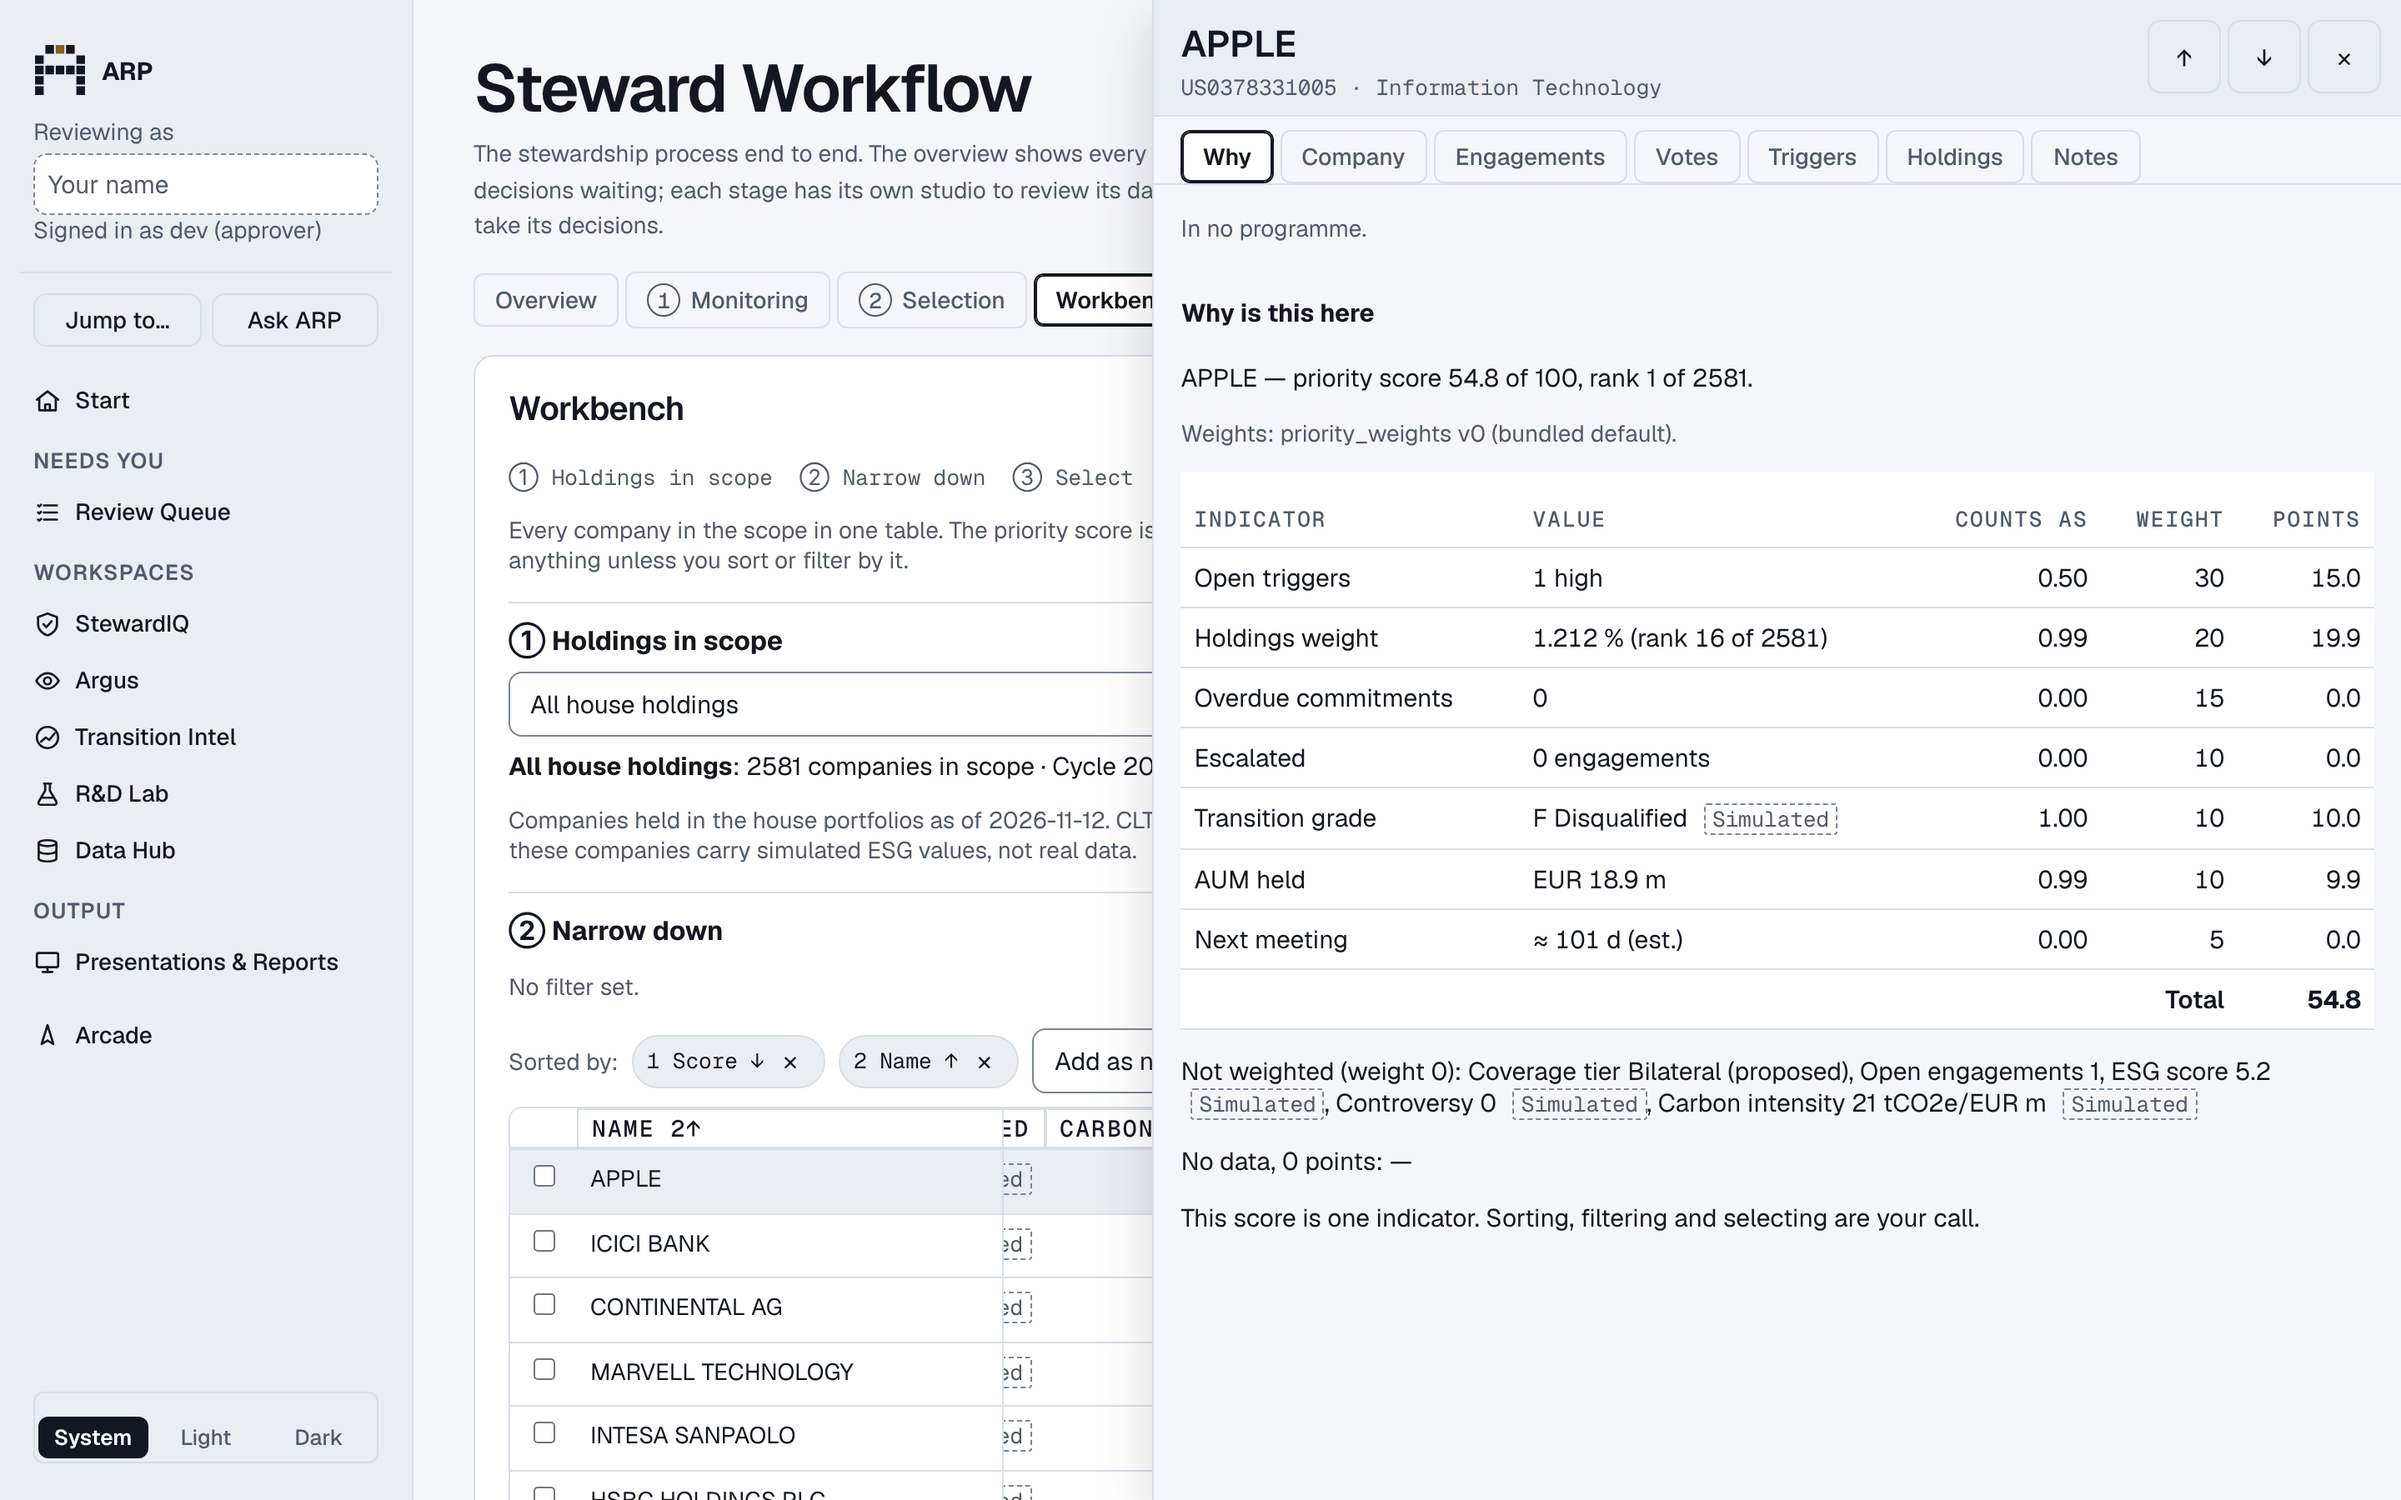
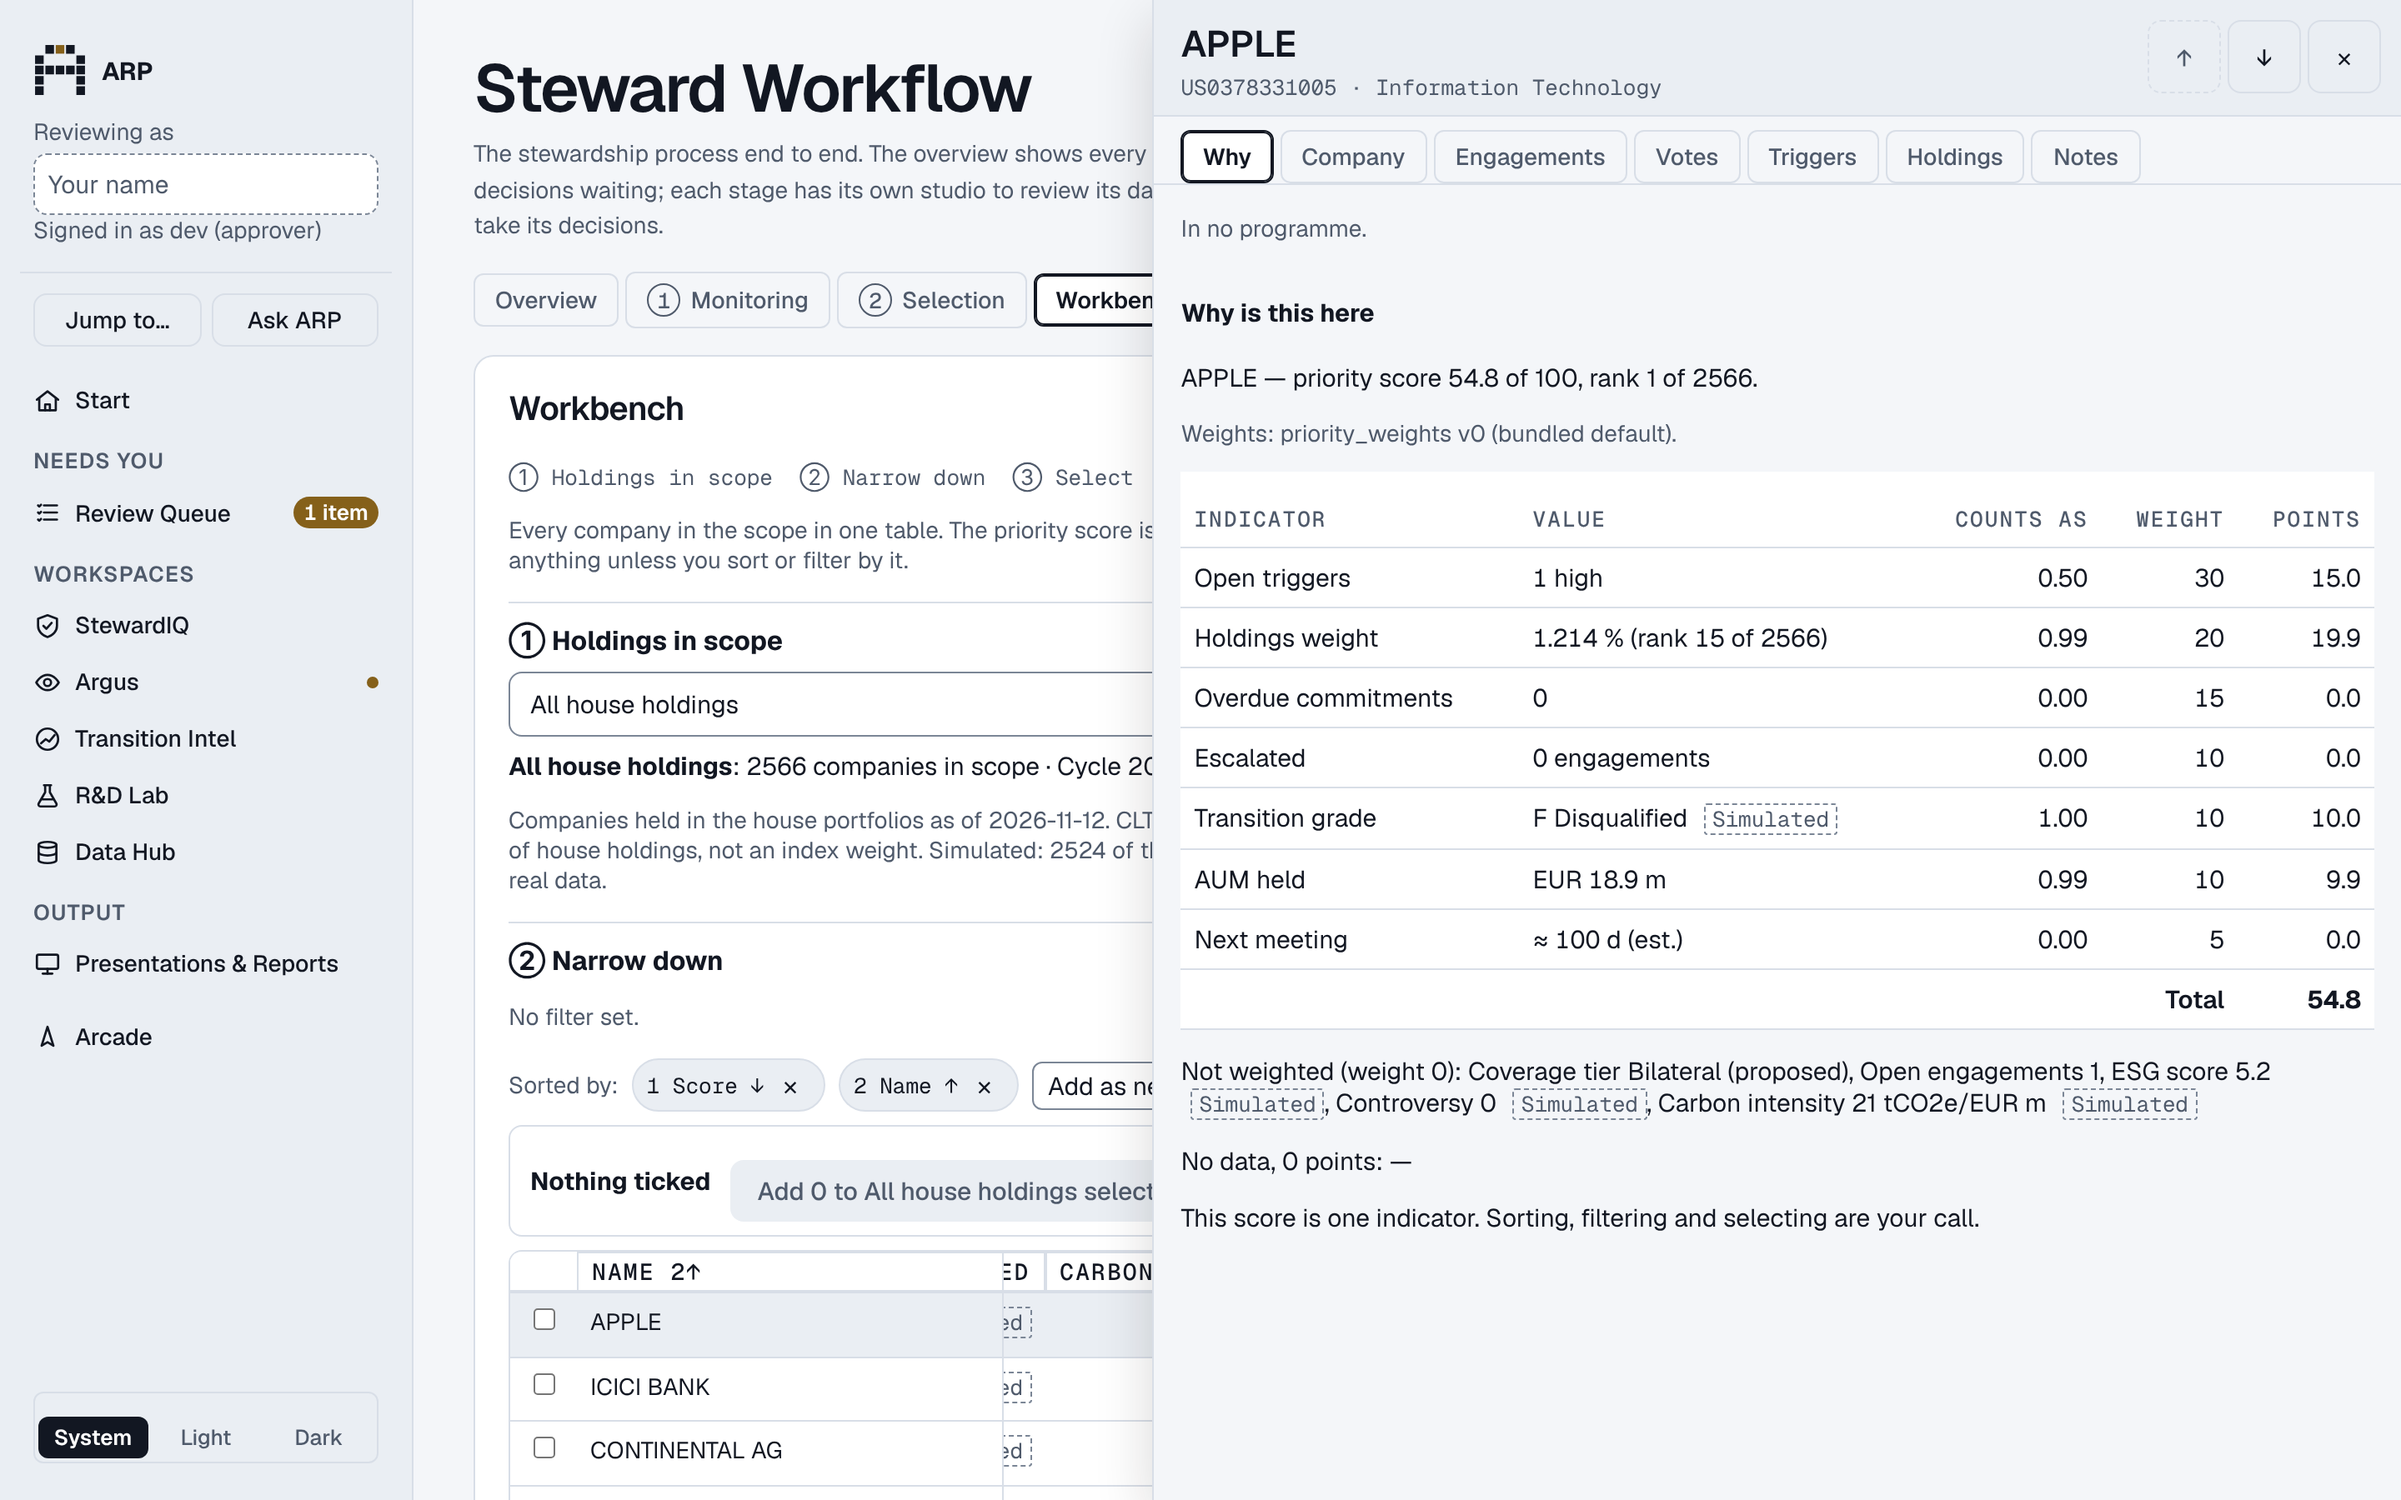
fix(stewardship): side panel on a phone - Votes and Holdings rows stack as label and value lines so every column shows; screenshots refreshed
Claude-Session: https://claude.ai/code/session_01GEWuyGcugqjNLLbRiv7WvN

diff --git a/frontend/src/pages/steward/WorkbenchPanel.tsx b/frontend/src/pages/steward/WorkbenchPanel.tsx
@@ -345,7 +345,7 @@ function VotesTab({ id }: { id: string }) {
     <>
       {data.total > data.votes.length && <p className="muted">{`Showing ${data.votes.length} of ${data.total}`}</p>}
       <div className="table-wrap">
-        <table className="data-table">
+        <table className="data-table wb-stack">
           <thead>
             <tr>
               <th>Date</th>
@@ -361,12 +361,12 @@ function VotesTab({ id }: { id: string }) {
           <tbody>
             {data.votes.map((v, i) => (
               <tr key={`${v.meeting_date}-${v.item_number}-${i}`}>
-                <td className="mono">{day(v.meeting_date) || "—"}</td>
-                <td className="wb-wrap">{[v.item_number, v.description].filter(Boolean).join(" ") || "—"}</td>
-                <td>{v.management_recommendation ? words(v.management_recommendation).toUpperCase() : "—"}</td>
-                <td>{v.vote_label ?? words(v.vote)}</td>
-                <td>{v.against_management === null ? "—" : v.against_management ? "Yes" : "No"}</td>
-                <td>{v.demo && <Demo />}</td>
+                <td className="mono" data-label="Date">{day(v.meeting_date) || "—"}</td>
+                <td className="wb-wrap" data-label="Item">{[v.item_number, v.description].filter(Boolean).join(" ") || "—"}</td>
+                <td data-label="Management recommendation">{v.management_recommendation ? words(v.management_recommendation).toUpperCase() : "—"}</td>
+                <td data-label="Vote">{v.vote_label ?? words(v.vote)}</td>
+                <td data-label="Against management">{v.against_management === null ? "—" : v.against_management ? "Yes" : "No"}</td>
+                <td data-label="">{v.demo && <Demo />}</td>
               </tr>
             ))}
           </tbody>
@@ -415,7 +415,7 @@ function HoldingsTab({ row, cycle }: { row: WorklistRow; cycle: string }) {
   if (!row.held_in.length) return <Empty>No house fund holds this company.</Empty>;
   return (
     <div className="table-wrap">
-      <table className="data-table">
+      <table className="data-table wb-stack">
         <thead>
           <tr>
             <th>Fund</th>
@@ -427,10 +427,10 @@ function HoldingsTab({ row, cycle }: { row: WorklistRow; cycle: string }) {
         <tbody>
           {row.held_in.map((h) => (
             <tr key={h.portfolio_id}>
-              <td className="wb-wrap">{h.name}</td>
-              <td className="num">{h.weight_pct === null ? "—" : h.weight_pct.toFixed(3)}</td>
-              <td className="num">{h.market_value_eur_m.toFixed(1)}</td>
-              <td>{h.selection_status === "confirmed" ? "Confirmed" : h.selection_status === "proposed" ? "Proposed" : "—"}</td>
+              <td className="wb-wrap" data-label="Fund">{h.name}</td>
+              <td className="num" data-label="Weight in fund %">{h.weight_pct === null ? "—" : h.weight_pct.toFixed(3)}</td>
+              <td className="num" data-label="Market value (EUR m)">{h.market_value_eur_m.toFixed(1)}</td>
+              <td data-label={`Selection ${cycle}`}>{h.selection_status === "confirmed" ? "Confirmed" : h.selection_status === "proposed" ? "Proposed" : "—"}</td>
             </tr>
           ))}
         </tbody>

diff --git a/frontend/src/index.css b/frontend/src/index.css
@@ -2761,3 +2761,12 @@ a.vc-box:hover { border-color: var(--text); }
   .wb-panel-body .data-table .num { white-space: nowrap; }
   .wb-panel-body td.wb-wrap { min-width: 0; }
 }
+/* Phone: Votes and Holdings have too many columns for 365px, so each row stacks as label · value lines. */
+@media (max-width: 760px) {
+  .wb-panel-body .data-table.wb-stack thead { position: absolute; width: 1px; height: 1px; overflow: hidden; clip-path: inset(50%); }
+  .wb-panel-body .data-table.wb-stack tr { display: block; padding: var(--s-2) 0; border-bottom: 1px solid var(--panel-border); }
+  .wb-panel-body .data-table.wb-stack td { display: flex; justify-content: space-between; gap: var(--s-3); padding: var(--s-0_5) var(--s-1); border: 0; text-align: right; }
+  .wb-panel-body .data-table.wb-stack td::before { content: attr(data-label); flex: none; max-width: 45%; color: var(--muted); font-size: var(--text-xs); text-align: left; }
+  .wb-panel-body .data-table.wb-stack td:empty { display: none; }
+  .wb-panel-body .data-table.wb-stack td.wb-wrap { text-align: left; }
+}
